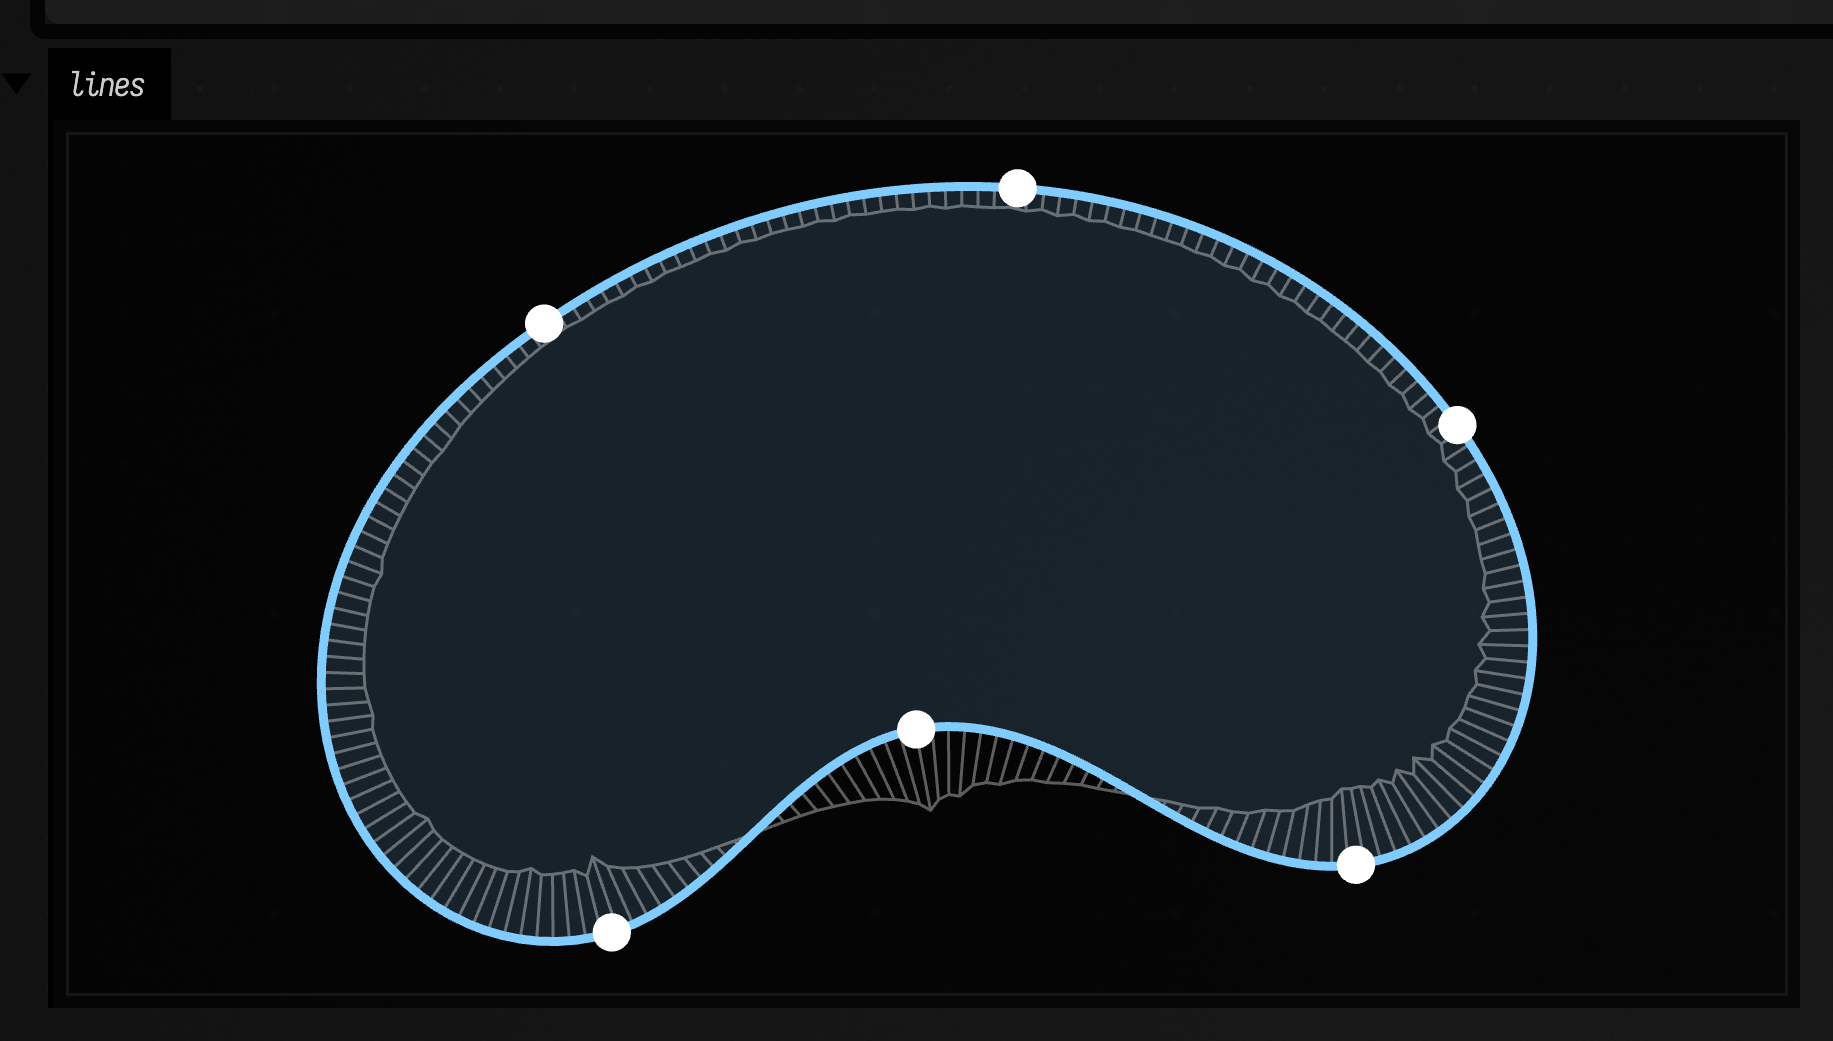
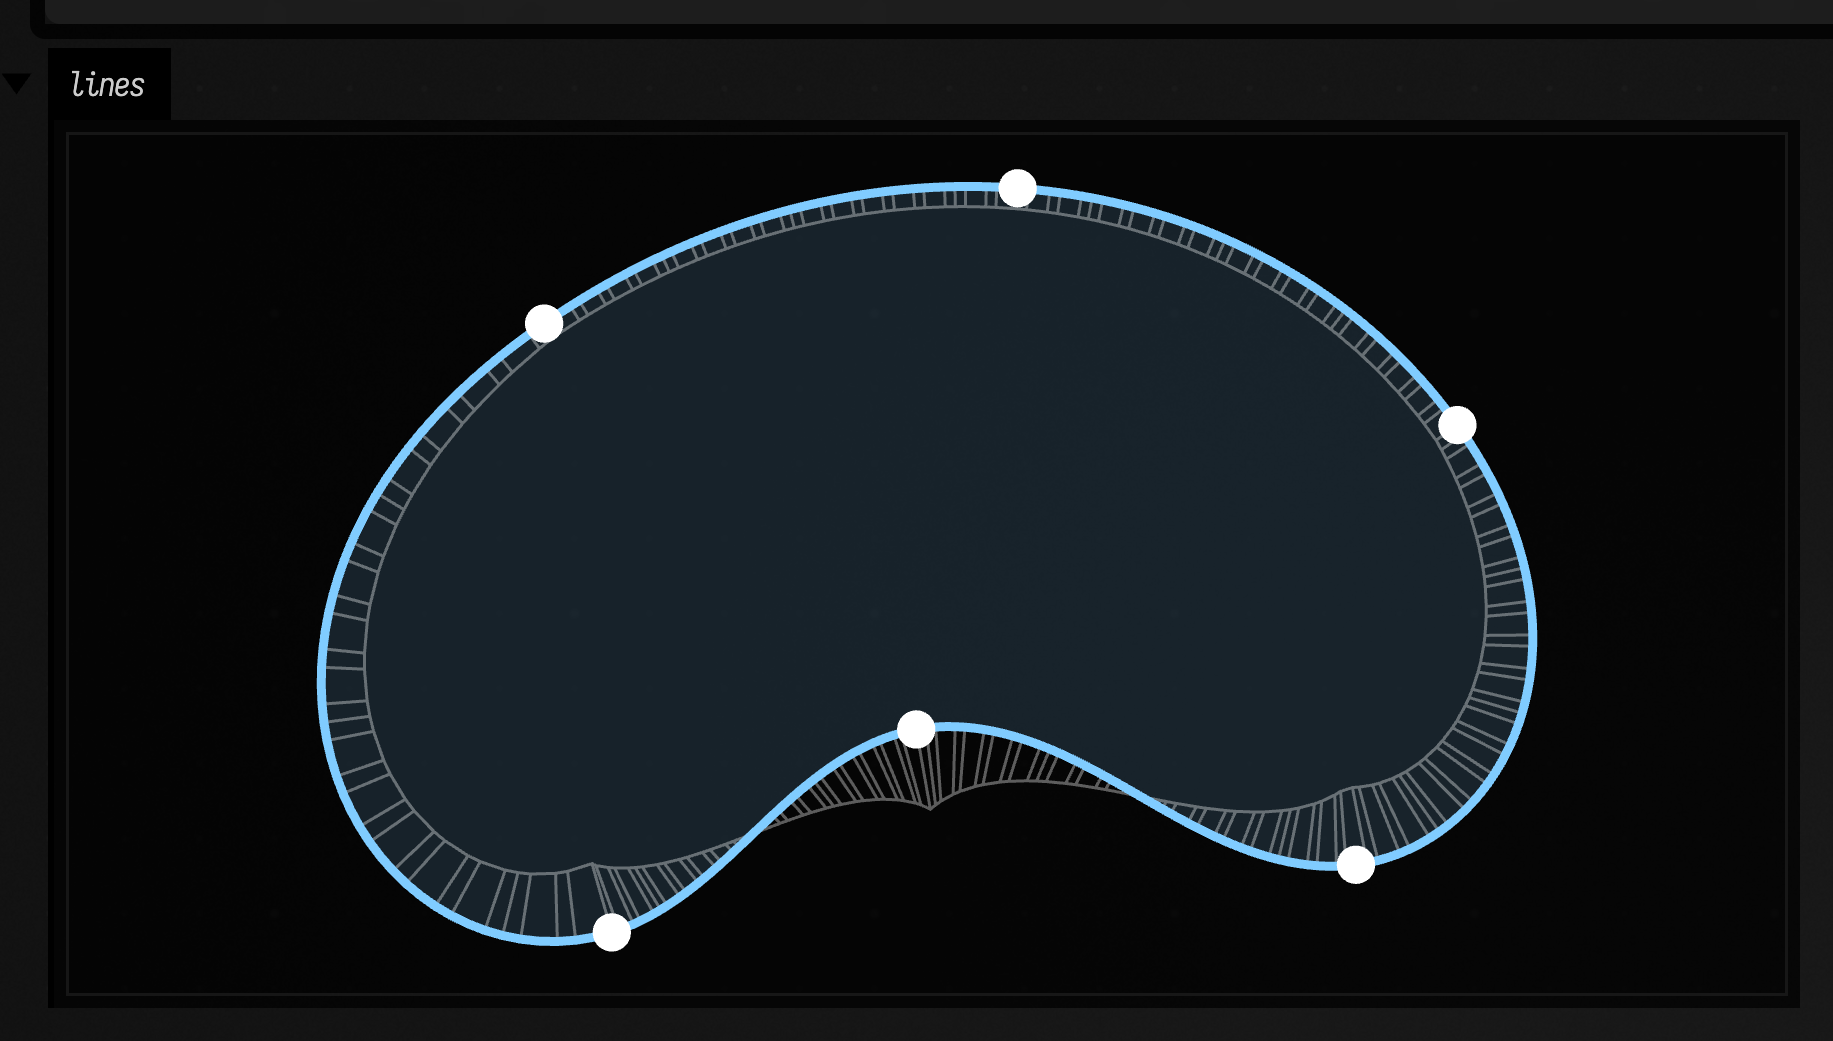
clothoidSplineFrom records exact curvature on its nodes; comb and plot read it
curvatureComb/curvaturePlot read the analytic kappa + kappa' s that the spline
writes on each node, so the clothoid plot is the true piecewise-linear
curvature with no sampling ripple. Other lines are measured by circles through
points 1.5 sample spacings either side by arc length. Plot x is arc length.
Captures recaptured.

diff --git a/src/jvmMain/kotlin/afield/geometry/path/FLineGeometry.kt b/src/jvmMain/kotlin/afield/geometry/path/FLineGeometry.kt
@@ -5120,6 +5120,7 @@ fun clothoidSplineFrom(points: List<Vec3>, closed: Boolean = false, samplesPerSe
     val z = pts[0].z
     val pieces = solveClothoidSpline(xs, ys, closed, 40) ?: return cubicSplineFrom(pts, closed)
     val steps = max(samplesPerSegment, 2)
+    line.nodes.last().properties[CURVATURE_PROPERTY] = pieces[0].kappa
     for ((j, piece) in pieces.withIndex()) {
         val ds = piece.length / steps
         var x = xs[j]
@@ -5143,6 +5144,7 @@ fun clothoidSplineFrom(points: List<Vec3>, closed: Boolean = false, samplesPerSe
                 x = xs[e]; y = ys[e]
             }
             line.lineTo(vec(x.toFloat(), y.toFloat(), z))
+            line.nodes.last().properties[CURVATURE_PROPERTY] = piece.kappa + piece.kappaPrime * i * ds
         }
     }
     if (closed) line.close()
@@ -5155,26 +5157,60 @@ fun clothoidSplineFrom(points: List<Vec3>, closed: Boolean = false, samplesPerSe
 fun clothoidSplineFrom(points: List<Vec2>, z: Number = 0, closed: Boolean = false, samplesPerSegment: Int = 48): FLine =
     clothoidSplineFrom(points.map { vec(it.x, it.y, z) }, closed, samplesPerSegment)
 
-/** Signed curvature (XY plane) at each of [samples] arc-length-even points, from circles through neighbours. */
-private fun signedCurvatureSamples(line: FLine, samples: Int): Pair<List<Vec3>, DoubleArray> {
-    val pts = line.sampleByNumber(max(samples, 3))
-    // Each circle goes through samples a few steps apart: neighbouring float samples on a fine
-    // polyline turn rounding into visible teeth.
-    val sub = line.sampleByNumber(max(samples, 3) * 4 - 3)
-    val w = 4
-    val k = DoubleArray(pts.size)
-    for (i in 1 until pts.size - 1) {
-        val j = i * 4
-        val a = sub[max(j - w, 0)]; val b = sub[j]; val c = sub[min(j + w, sub.lastIndex)]
+/** Node property where [clothoidSplineFrom] records the exact signed curvature at each drawn point. */
+private const val CURVATURE_PROPERTY = "curvature"
+
+/**
+ * Points along [line], their unit normals (tangent turned left), arc length, and signed curvature.
+ *
+ * A line from [clothoidSplineFrom] carries exact curvature on its nodes and is read from them.
+ * Any other line is sampled evenly by arc length, and curvature is the circle through points a
+ * fixed distance either side, so the answer does not depend on how the line was flattened.
+ */
+private class CurvatureSamples(val points: List<Vec3>, val nx: DoubleArray, val ny: DoubleArray, val along: DoubleArray, val kappa: DoubleArray)
+
+private fun signedCurvatureSamples(line: FLine, samples: Int): CurvatureSamples {
+    val drawn = line.nodes.filter { it !is FLine.Close }
+    if (drawn.size >= 3 && drawn.all { it.properties[CURVATURE_PROPERTY] is Double }) {
+        val all = drawn.map { Vec3(it.to) }
+        val ks = drawn.map { it.properties[CURVATURE_PROPERTY] as Double }
+        val along = DoubleArray(all.size)
+        for (i in 1 until all.size) along[i] = along[i - 1] + all[i].distance(all[i - 1])
+        val pick = (0 until max(samples, 3)).map { (it.toDouble() * all.lastIndex / (max(samples, 3) - 1)).roundToInt() }.distinct()
+        val nx = DoubleArray(pick.size)
+        val ny = DoubleArray(pick.size)
+        for ((j, i) in pick.withIndex()) {
+            val o = all[max(i - 1, 0)]; val q = all[min(i + 1, all.lastIndex)]
+            val tx = (q.x - o.x).toDouble(); val ty = (q.y - o.y).toDouble()
+            val tl = max(hypot(tx, ty), 1e-12)
+            nx[j] = -ty / tl; ny[j] = tx / tl
+        }
+        return CurvatureSamples(pick.map { all[it] }, nx, ny, DoubleArray(pick.size) { along[pick[it]] }, DoubleArray(pick.size) { ks[pick[it]] })
+    }
+    val n = max(samples, 3)
+    val c = line.cursor()
+    val total = c.lengthD().toDouble()
+    val h = total / (n - 1) * 1.5
+    val pts = ArrayList<Vec3>(n)
+    val nx = DoubleArray(n); val ny = DoubleArray(n); val along = DoubleArray(n); val k = DoubleArray(n)
+    fun at(d: Double): Vec3 { c.setD(d.coerceIn(0.0, total).toFloat()); return c.position() }
+    for (i in 0 until n) {
+        val d = total * i / (n - 1)
+        val b = at(d)
+        val a = at(d - h); val e = at(d + h)
+        pts.add(b); along[i] = d
+        val tx = (e.x - a.x).toDouble(); val ty = (e.y - a.y).toDouble()
+        val tl = max(hypot(tx, ty), 1e-12)
+        nx[i] = -ty / tl; ny[i] = tx / tl
         val abx = (b.x - a.x).toDouble(); val aby = (b.y - a.y).toDouble()
-        val bcx = (c.x - b.x).toDouble(); val bcy = (c.y - b.y).toDouble()
-        val acx = (c.x - a.x).toDouble(); val acy = (c.y - a.y).toDouble()
+        val bcx = (e.x - b.x).toDouble(); val bcy = (e.y - b.y).toDouble()
         val cross = abx * bcy - aby * bcx
-        val denom = hypot(abx, aby) * hypot(bcx, bcy) * hypot(acx, acy)
+        val denom = hypot(abx, aby) * hypot(bcx, bcy) * hypot(tx, ty)
         k[i] = if (denom > 1e-18) 2 * cross / denom else 0.0
     }
-    k[0] = k[1]; k[k.size - 1] = k[k.size - 2]
-    return Pair(pts, k)
+    // the ends see a one-sided neighbourhood; copy their inside neighbour
+    k[0] = k[1]; k[n - 1] = k[n - 2]
+    return CurvatureSamples(pts, nx, ny, along, k)
 }
 
 /**
@@ -5183,27 +5219,23 @@ private fun signedCurvatureSamples(line: FLine, samples: Int): Pair<List<Vec3>, 
  *
  * Teeth point toward the centre of curvature, so they flip sides at an inflection; a
  * smooth envelope means smoothly varying curvature, a step in it is a curvature jump.
- * Curvature is measured from the drawn geometry (circles through neighbouring samples),
- * so it works on any line: cubic splines, clothoid splines, hand-drawn strokes.
+ * A line made by [clothoidSplineFrom] carries its exact curvature and is read from that
+ * (scale such a line after building it and the teeth keep the unscaled lengths). Any other line,
+ * a cubic spline or a hand-drawn stroke, is measured from its shape.
  *
  * @param scale tooth length per unit curvature (world units squared)
  * @param samples teeth along the whole line
  */
 fun FLine.curvatureComb(scale: Double = 2000.0, samples: Int = 120): FLine {
-    val (pts, k) = signedCurvatureSamples(this, samples)
+    val cs = signedCurvatureSamples(this, samples)
     val comb = FLine()
-    val tips = ArrayList<Vec3>()
-    for (i in pts.indices) {
-        val p = pts[i]
-        val q = pts[min(i + 1, pts.lastIndex)]
-        val o = pts[max(i - 1, 0)]
-        val tx = (q.x - o.x).toDouble(); val ty = (q.y - o.y).toDouble()
-        val tl = hypot(tx, ty)
-        if (tl < 1e-12) continue
-        val len = k[i] * scale
-        val tip = vec((p.x - ty / tl * len).toFloat(), (p.y + tx / tl * len).toFloat(), p.z)
-        comb.moveTo(p); comb.lineTo(tip)
-        tips.add(tip)
+    val tips = cs.points.indices.map { i ->
+        val p = cs.points[i]
+        val len = cs.kappa[i] * scale
+        vec((p.x + cs.nx[i] * len).toFloat(), (p.y + cs.ny[i] * len).toFloat(), p.z)
+    }
+    for (i in tips.indices) {
+        comb.moveTo(cs.points[i]); comb.lineTo(tips[i])
     }
     if (tips.size > 1) {
         comb.moveTo(tips[0])
@@ -5222,11 +5254,13 @@ fun FLine.curvatureComb(scale: Double = 2000.0, samples: Int = 120): FLine {
  * @param samples points along the line
  */
 fun FLine.curvaturePlot(width: Double = 400.0, height: Double = 120.0, samples: Int = 300, maxCurvature: Double? = null): FLine {
-    val (_, k) = signedCurvatureSamples(this, samples)
+    val cs = signedCurvatureSamples(this, samples)
+    val k = cs.kappa
+    val total = max(cs.along.last(), 1e-12)
     val top = maxCurvature ?: max(k.maxOf { abs(it) }, 1e-9)
     val plot = FLine()
     for (i in k.indices) {
-        val x = width * i / (k.size - 1)
+        val x = width * cs.along[i] / total
         val y = height / 2 - (k[i] / top).coerceIn(-1.0, 1.0) * height / 2
         if (i == 0) plot.moveTo(vec(x, y, 0.0)) else plot.lineTo(vec(x, y, 0.0))
     }

diff --git a/src/jvmTest/kotlin/afield/geometry/path/ClothoidSplineTest.kt b/src/jvmTest/kotlin/afield/geometry/path/ClothoidSplineTest.kt
@@ -108,4 +108,20 @@ class ClothoidSplineTest {
         assertTrue(plot.nodes.size == 80)
         assertTrue(plot.nodes.all { it.to.y in -0.01f..100.01f })
     }
+
+    @Test
+    fun plotOfACircleIsFlat() {
+        // The spline carries exact curvature on its nodes, so the plot has no sampling ripple.
+        val knots = (0 until 6).map { i -> val a = 2 * PI * i / 6 + 0.2 * sin(i * 2.3); vec(80 * cos(a), 80 * sin(a), 0.0) }
+        val ys = clothoidSplineFrom(knots, closed = true).curvaturePlot(height = 100.0, samples = 200, maxCurvature = 0.02)
+            .nodes.map { it.to.y.toDouble() }
+        val spread = ys.maxOf { it } - ys.minOf { it }
+        assertTrue(spread < 0.05, "plot of a circle varies by $spread")
+    }
+
+    @Test
+    fun cubicCombFallsBackToMeasuredCurvature() {
+        val comb = cubicSplineFrom(wave).curvatureComb(samples = 40)
+        assertTrue(comb.nodes.size >= 80, "comb has ${comb.nodes.size} nodes")
+    }
 }

diff --git a/public/docs/fline_examples.md b/public/docs/fline_examples.md
@@ -1384,7 +1384,7 @@ Each piece between two points is an [Euler spiral](https://en.wikipedia.org/wiki
 
 Two tools make the difference visible on any line. `curvatureComb` draws a tooth along the normal at each sample, as long as the curvature there, and joins the tips; the teeth swap sides where the line changes from turning left to turning right. `curvaturePlot` draws curvature against distance along the line, in a box `width` by `height` with zero on the middle row.
 
-The comparison below puts both splines through the same eight points. The cubic's comb (orange) steps at every point; the clothoid's (blue) is a chain of straight runs that meet without steps. The plots underneath share one vertical scale.
+The comparison below puts both splines through the same eight points. The plots underneath share one vertical scale. The cubic's curvature (orange) steps at every point; the clothoid's (blue) is a chain of straight runs that meet without steps, and its comb tips run on without a break.
 
 ```diffstatic_runner {data-lang=kotlin screenshot="assets/clothoid_spline_vs_cubic.png" embed=true}
 :::static
